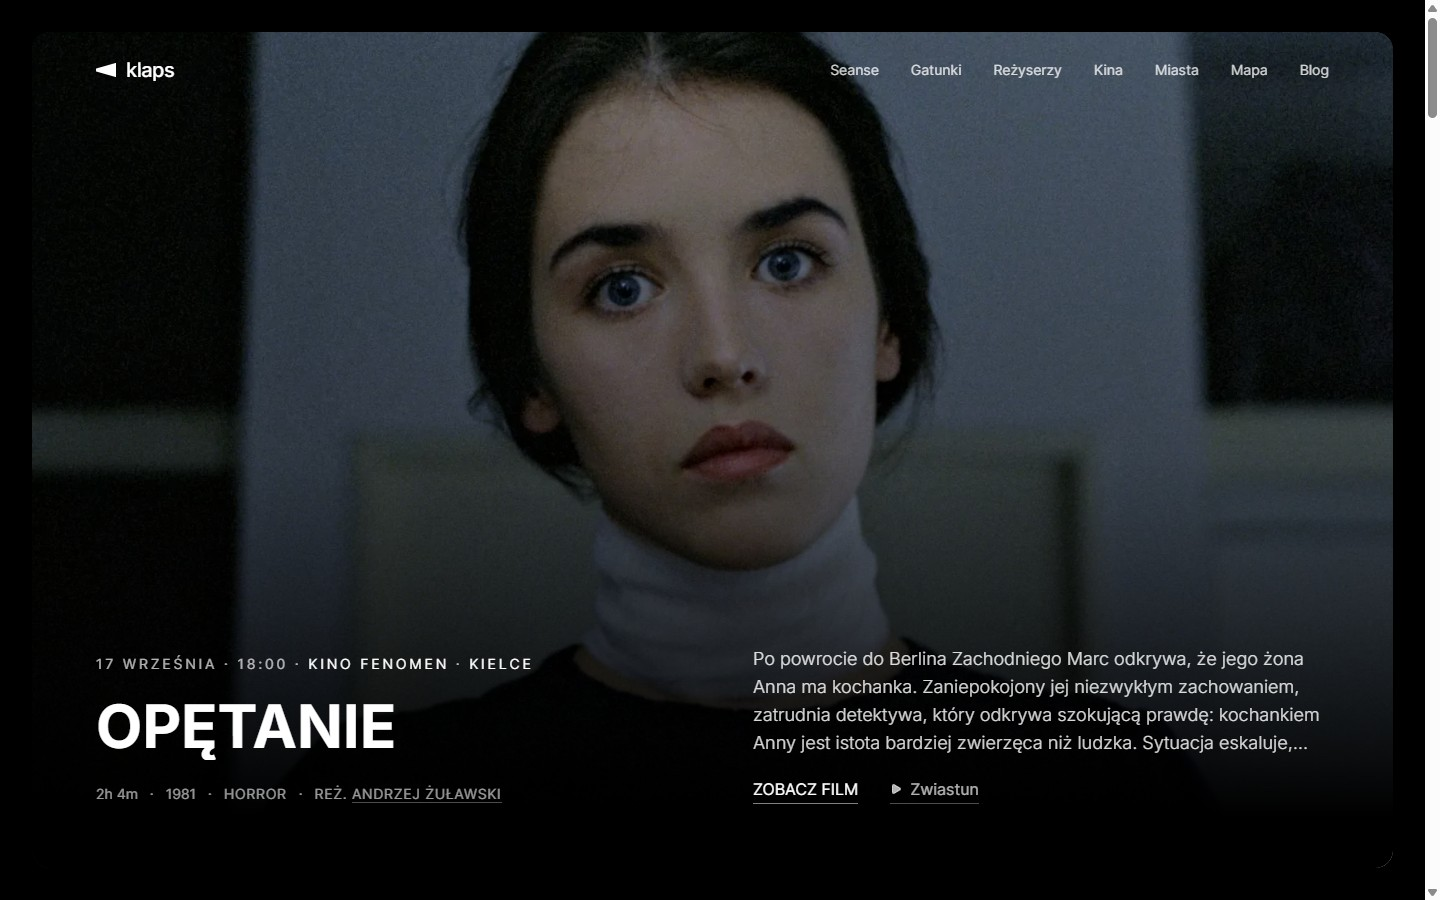
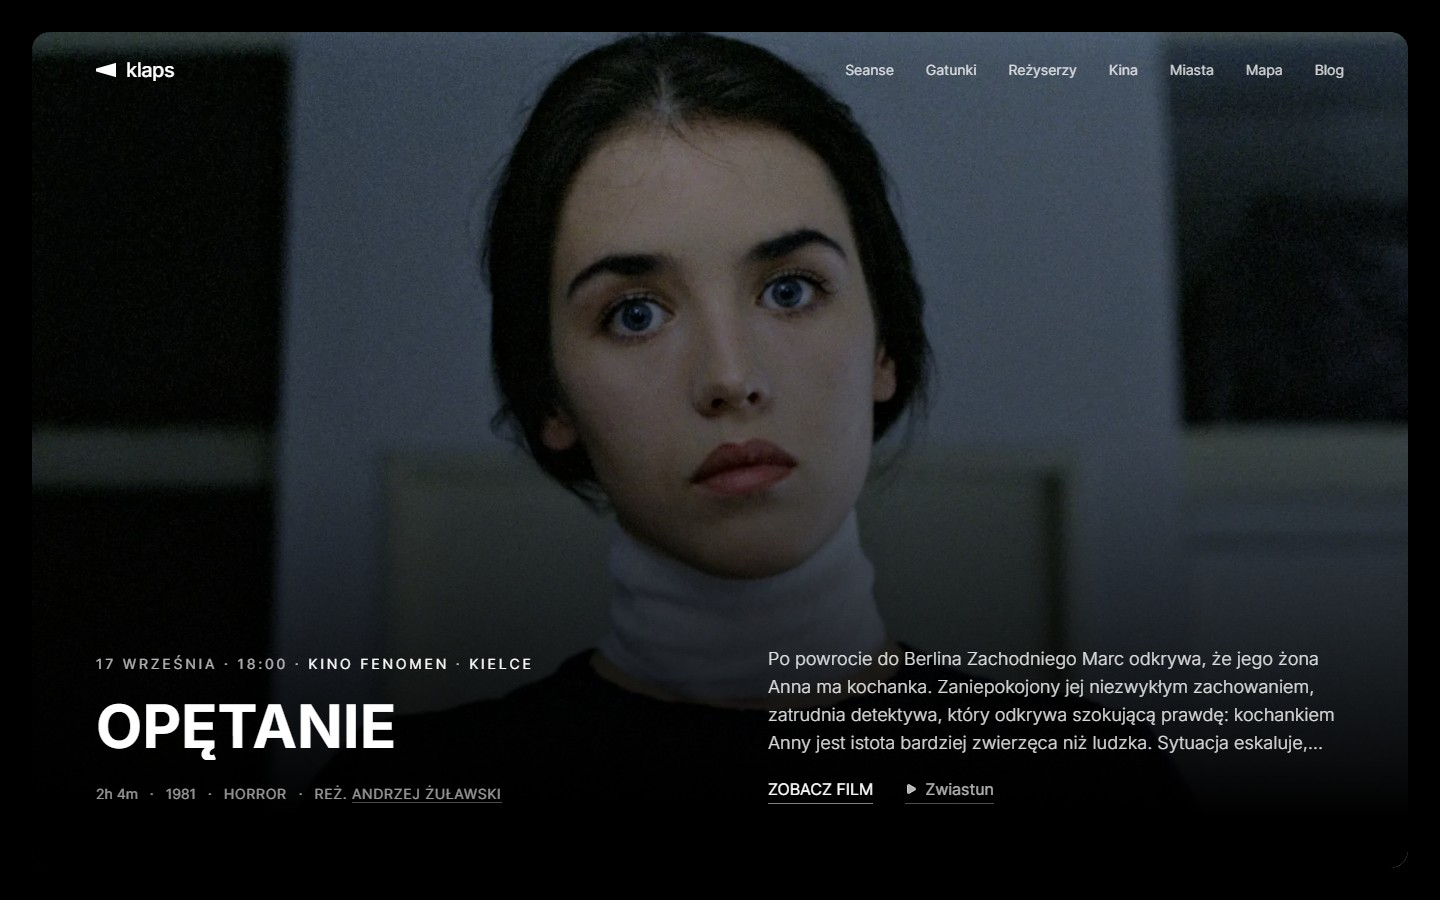
fix: Reshoot the project screenshots without the scrollbar
Both shots carried the browser's scrollbar down the right edge, and the
Klaps one had been taken at the wrong viewport, so it came out square
with the cinema name wrapping. Reshot at 1440x900 with the scrollbar
hidden, and saved as JPEG: the Klaps hero is a film still, which PNG was
storing at 1.2MB.

The Playwright scratch directory is ignored now; it had slipped into the
previous commit.

diff --git a/src/app/(case-study)/boardflow/_components/boardflow-hero/index.tsx b/src/app/(case-study)/boardflow/_components/boardflow-hero/index.tsx
@@ -57,7 +57,7 @@ const BoardflowHero: React.FC = (): React.JSX.Element => {
       </div>
 
       <ProjectShot
-        src='/shots/boardflow.png'
+        src='/shots/boardflow.jpg'
         alt='The BoardFlow landing page'
         width={1440}
         height={900}
